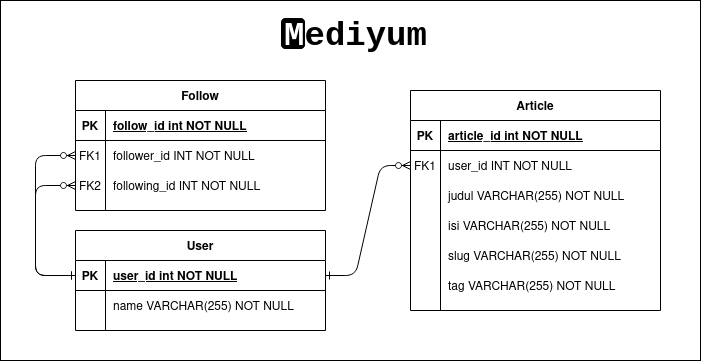
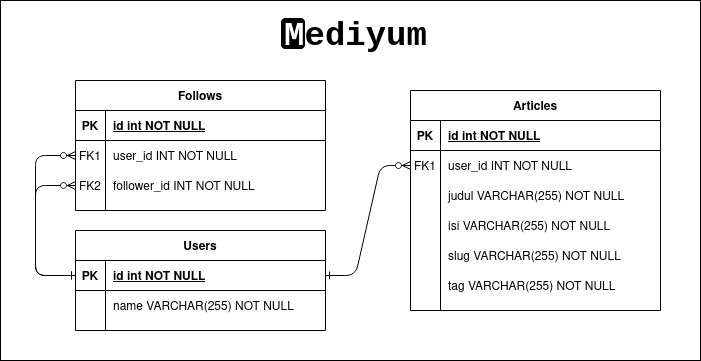
penyesuaian dengan soal done

diff --git a/resources/views/layouts/partials/sidebar.blade.php b/resources/views/layouts/partials/sidebar.blade.php
@@ -1,11 +1,11 @@
 <ul class="navbar-nav bg-gradient-primary sidebar sidebar-dark accordion" id="accordionSidebar">
 
     <!-- Sidebar - Brand -->
-    <a class="sidebar-brand d-flex align-items-center justify-content-center" href="index.html">
+    <a class="sidebar-brand d-flex align-items-center justify-content-center" href="/">
       <div class="sidebar-brand-icon rotate-n-15">
         <i class="fas fa-laugh-wink"></i>
       </div>
-      <div class="sidebar-brand-text mx-3">SB Admin <sup>2</sup></div>
+      <div class="sidebar-brand-text mx-3">Mediyum<sup>2</sup></div>
     </a>
 
     <!-- Divider -->
@@ -13,9 +13,9 @@
 
     <!-- Nav Item - Dashboard -->
     <li class="nav-item">
-      <a class="nav-link" href="index.html">
+      <a class="nav-link" href="/">
         <i class="fas fa-fw fa-tachometer-alt"></i>
-        <span>Dashboard</span></a>
+        <span>ERD</span></a>
     </li>
 
     <!-- Divider -->
@@ -23,81 +23,19 @@
 
     <!-- Heading -->
     <div class="sidebar-heading">
-      Interface
+      Artikel
     </div>
 
-    <!-- Nav Item - Pages Collapse Menu -->
     <li class="nav-item">
-      <a class="nav-link collapsed" href="#" data-toggle="collapse" data-target="#collapseTwo" aria-expanded="true" aria-controls="collapseTwo">
-        <i class="fas fa-fw fa-cog"></i>
-        <span>Components</span>
-      </a>
-      <div id="collapseTwo" class="collapse" aria-labelledby="headingTwo" data-parent="#accordionSidebar">
-        <div class="bg-white py-2 collapse-inner rounded">
-          <h6 class="collapse-header">Custom Components:</h6>
-          <a class="collapse-item" href="buttons.html">Buttons</a>
-          <a class="collapse-item" href="cards.html">Cards</a>
-        </div>
-      </div>
+      <a class="nav-link" href="/artikel">
+        <i class="fas fa-fw fa-file"></i>
+        <span>Daftar Artikel</span></a>
     </li>
 
-    <!-- Nav Item - Utilities Collapse Menu -->
     <li class="nav-item">
-      <a class="nav-link collapsed" href="#" data-toggle="collapse" data-target="#collapseUtilities" aria-expanded="true" aria-controls="collapseUtilities">
-        <i class="fas fa-fw fa-wrench"></i>
-        <span>Utilities</span>
-      </a>
-      <div id="collapseUtilities" class="collapse" aria-labelledby="headingUtilities" data-parent="#accordionSidebar">
-        <div class="bg-white py-2 collapse-inner rounded">
-          <h6 class="collapse-header">Custom Utilities:</h6>
-          <a class="collapse-item" href="utilities-color.html">Colors</a>
-          <a class="collapse-item" href="utilities-border.html">Borders</a>
-          <a class="collapse-item" href="utilities-animation.html">Animations</a>
-          <a class="collapse-item" href="utilities-other.html">Other</a>
-        </div>
-      </div>
-    </li>
-
-    <!-- Divider -->
-    <hr class="sidebar-divider">
-
-    <!-- Heading -->
-    <div class="sidebar-heading">
-      Addons
-    </div>
-
-    <!-- Nav Item - Pages Collapse Menu -->
-    <li class="nav-item active">
-      <a class="nav-link" href="#" data-toggle="collapse" data-target="#collapsePages" aria-expanded="true" aria-controls="collapsePages">
-        <i class="fas fa-fw fa-folder"></i>
-        <span>Pages</span>
-      </a>
-      <div id="collapsePages" class="collapse show" aria-labelledby="headingPages" data-parent="#accordionSidebar">
-        <div class="bg-white py-2 collapse-inner rounded">
-          <h6 class="collapse-header">Login Screens:</h6>
-          <a class="collapse-item" href="login.html">Login</a>
-          <a class="collapse-item" href="register.html">Register</a>
-          <a class="collapse-item" href="forgot-password.html">Forgot Password</a>
-          <div class="collapse-divider"></div>
-          <h6 class="collapse-header">Other Pages:</h6>
-          <a class="collapse-item" href="404.html">404 Page</a>
-          <a class="collapse-item active" href="blank.html">Blank Page</a>
-        </div>
-      </div>
-    </li>
-
-    <!-- Nav Item - Charts -->
-    <li class="nav-item">
-      <a class="nav-link" href="charts.html">
-        <i class="fas fa-fw fa-chart-area"></i>
-        <span>Charts</span></a>
-    </li>
-
-    <!-- Nav Item - Tables -->
-    <li class="nav-item">
-      <a class="nav-link" href="tables.html">
-        <i class="fas fa-fw fa-table"></i>
-        <span>Tables</span></a>
+      <a class="nav-link" href="artikel/create">
+        <i class="fas fa-fw fa-edit"></i>
+        <span>Buat Artikel</span></a>
     </li>
 
     <!-- Divider -->

diff --git a/resources/views/index.blade.php b/resources/views/index.blade.php
@@ -1,38 +1,47 @@
 @extends('layouts.master')
 
 @section('content')
-<a class="btn btn-primary m-3" href="/artikel/create"> <i class="nav-icon fas fa-edit"></i> Ajukan Pertanyaan </a>
+<a class="btn btn-primary m-3" href="/artikel/create"> <i class="nav-icon fas fa-edit"></i> Buat Artikel Baru </a>
 
-<table class="table table-hover">
-  <thead>
-    <tr>
-      <th style="width: 150px">Judul Artikel</th>
-      <th> Isi Artikel</th>
-      <th style="width: 150px"> Tag</th>
-      <th style="width: 300px"> Action</th>
-    </tr>
-  </thead>
-  <tbody>
-    @foreach ($artikel as $key => $item)
-        
-    <tr>
-      <td>{{ $item -> judul }}</td>
-      <td style="white-space: pre-wrap">{{ $item -> isi }}</td>
-      <td>{{ $item -> tag }}</td>
-      <td>
+  @empty($artikel[0])
+    
+  <div class="card mb-3">
+    <div class="card-body">
+      <h4 class="card-title font-weight-bold mb-1">Belum Terdapat Artikel</h4>
+      <h6 class="card-subtitle mb-2 text-muted">--------------------</h6>
+      <a class="btn btn-sm btn-primary m-3" href="/artikel/create"> Buat Artikel Baru <i class="nav-icon fas fa-angle-right"></i> </a>
+    </div>
+  </div>
+
+  @endempty
+
+
+  @foreach ($artikel as $key => $item)
+
+  <div class="card mb-3">
+    <div class="card-body">
+      
+      <div class="float-right"> 
         <form action="/artikel/{{ $item -> id }}" method="POST" style="display: inline">
           @csrf
           @method("DELETE")
           <button type="submit" class="btn btn-danger"><i class="fas fa-trash"></i></button>
         </form>
         <a href="/artikel/{{ $item -> id }} " class="btn btn-primary">Detail <i class="fas fa-angle-right"></i> </a>
-      </td>
-    </tr>
-    
-    
-    @endforeach
-  </tbody>
-</table>
+      </div>
+      
+      <h4 class="card-title text-gray-900 font-weight-bold mb-1">{{ $item -> judul }}</h4>
+      <h6 class="card-subtitle mb-2 text-muted">{{ $item -> slug }}</h6>
+      <p class="card-text text-gray-900" style="white-space: pre-wrap">{{ $item -> isi }}</p>
+
+      @foreach(explode(',',$item->tag) as $row)
+        <a href="#" class="btn btn-sm btn-outline-secondary"> {{ $row }} </a>
+      @endforeach
+      
+    </div>
+  </div>
+
+  @endforeach
     
 @endsection
 

diff --git a/resources/views/layouts/partials/topbar.blade.php b/resources/views/layouts/partials/topbar.blade.php
@@ -150,8 +150,9 @@
       <!-- Nav Item - User Information -->
       <li class="nav-item dropdown no-arrow">
         <a class="nav-link dropdown-toggle" href="#" id="userDropdown" role="button" data-toggle="dropdown" aria-haspopup="true" aria-expanded="false">
-          <span class="mr-2 d-none d-lg-inline text-gray-600 small">Valerie Luna</span>
-          <img class="img-profile rounded-circle" src="https://source.unsplash.com/QAB-WJcbgJk/60x60">
+          <span class="mr-2 d-none d-lg-inline text-gray-600 small">Garin Ichsan</span>
+          {{-- <i class="fas fa-user-secret big"></i> --}}
+          <img class="img-profile rounded-circle" src="https://source.unsplash.com/WLUHO9A_xik/160x90">
         </a>
         <!-- Dropdown - User Information -->
         <div class="dropdown-menu dropdown-menu-right shadow animated--grow-in" aria-labelledby="userDropdown">

diff --git a/resources/views/edit.blade.php b/resources/views/edit.blade.php
@@ -3,7 +3,7 @@
 @section('content')
 <a class="btn btn-primary mt-3 ml-3" href="/artikel/{{$artikel->id}}"> <i class="right fas fa-angle-left"></i> &nbsp Kembali ke Detail Artikel</a>
 
-<form role="form" class="mx-3" action="/artikel" method="POST">
+<form role="form" class="mx-3" action="/artikel/{{$artikel->id}}" method="POST">
     @csrf
     @method("PUT")
     <!-- text input -->
@@ -16,7 +16,7 @@
 
     <!-- tag input -->
     <label class="mt-3">Tag</label>
-    <input type="text" class="form-control mb-3" name="judul" value="{{$artikel->tag}}">
+    <input type="text" class="form-control mb-3" name="tag" value="{{$artikel->tag}}">
 
     <button class="btn btn-primary my-3" type="submit">Ubah</a>
 

diff --git a/resources/views/layouts/master.blade.php b/resources/views/layouts/master.blade.php
@@ -55,7 +55,7 @@
       <footer class="sticky-footer bg-white">
         <div class="container my-auto">
           <div class="copyright text-center my-auto">
-            <span>Copyright &copy; Your Website 2019</span>
+            <span>Copyright &copy; 2020 Mediyum. </span>
           </div>
         </div>
       </footer>
